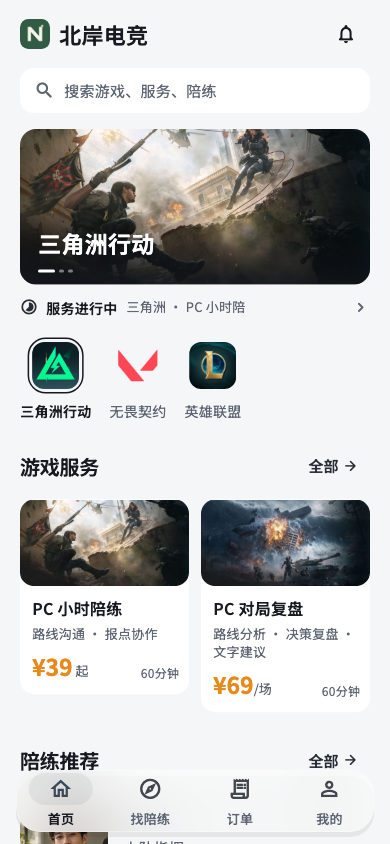
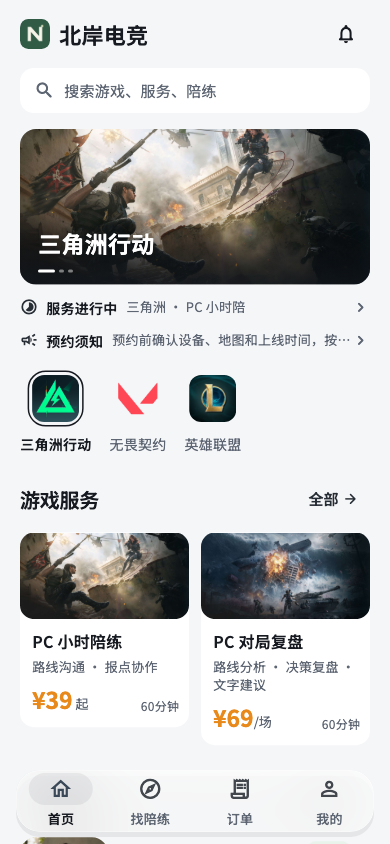
feat(home): 首页横幅下方补最新公告喇叭条，点击进入公告页

diff --git a/apps/mobile/lib/discover.dart b/apps/mobile/lib/discover.dart
@@ -139,6 +139,44 @@ class _HomePageState extends State<HomePage> {
                 ),
               ),
             ),
+          if (repo.announcements.isNotEmpty)
+            Padding(
+              padding: const EdgeInsets.only(top: 12),
+              child: InkWell(
+                onTap: () => context.push('/announcements'),
+                child: Row(
+                  children: [
+                    Icon(
+                      Icons.campaign_outlined,
+                      size: 18,
+                      color: brandColor(repo),
+                    ),
+                    const SizedBox(width: 8),
+                    Text(
+                      '${repo.announcements.first['title']}',
+                      style: const TextStyle(
+                        fontSize: 14,
+                        fontWeight: FontWeight.w600,
+                      ),
+                    ),
+                    const SizedBox(width: 9),
+                    Expanded(
+                      child: Text(
+                        '${repo.announcements.first['body'] ?? ''}',
+                        maxLines: 1,
+                        overflow: TextOverflow.ellipsis,
+                        style: const TextStyle(fontSize: 13, color: muted),
+                      ),
+                    ),
+                    const Icon(
+                      Icons.chevron_right_rounded,
+                      size: 19,
+                      color: muted,
+                    ),
+                  ],
+                ),
+              ),
+            ),
           const SizedBox(height: 20),
           SizedBox(
             height: 84,
